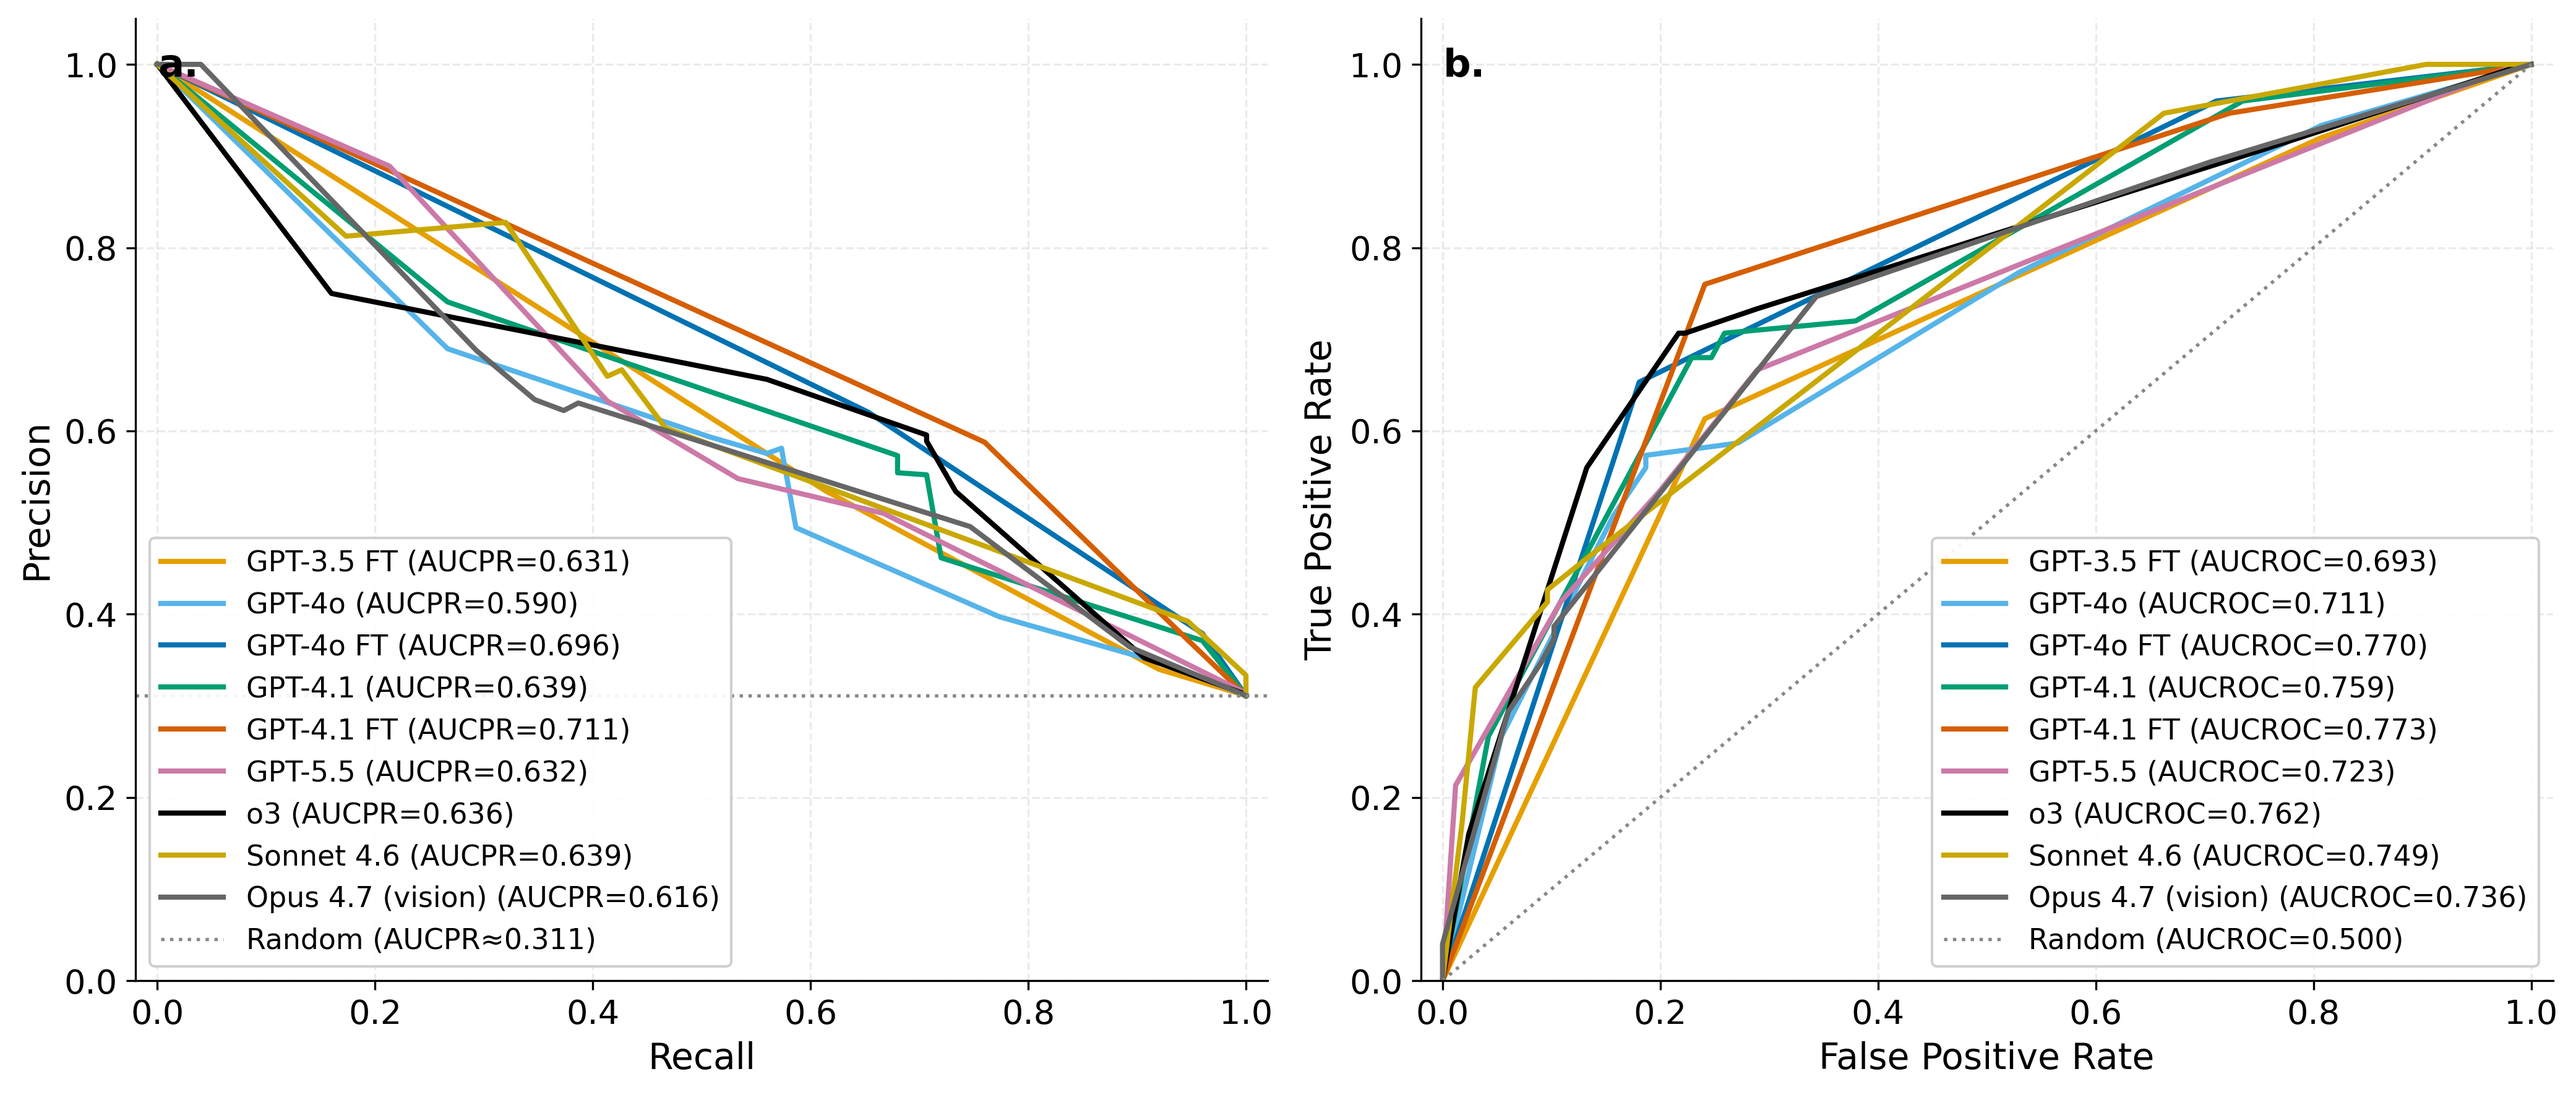
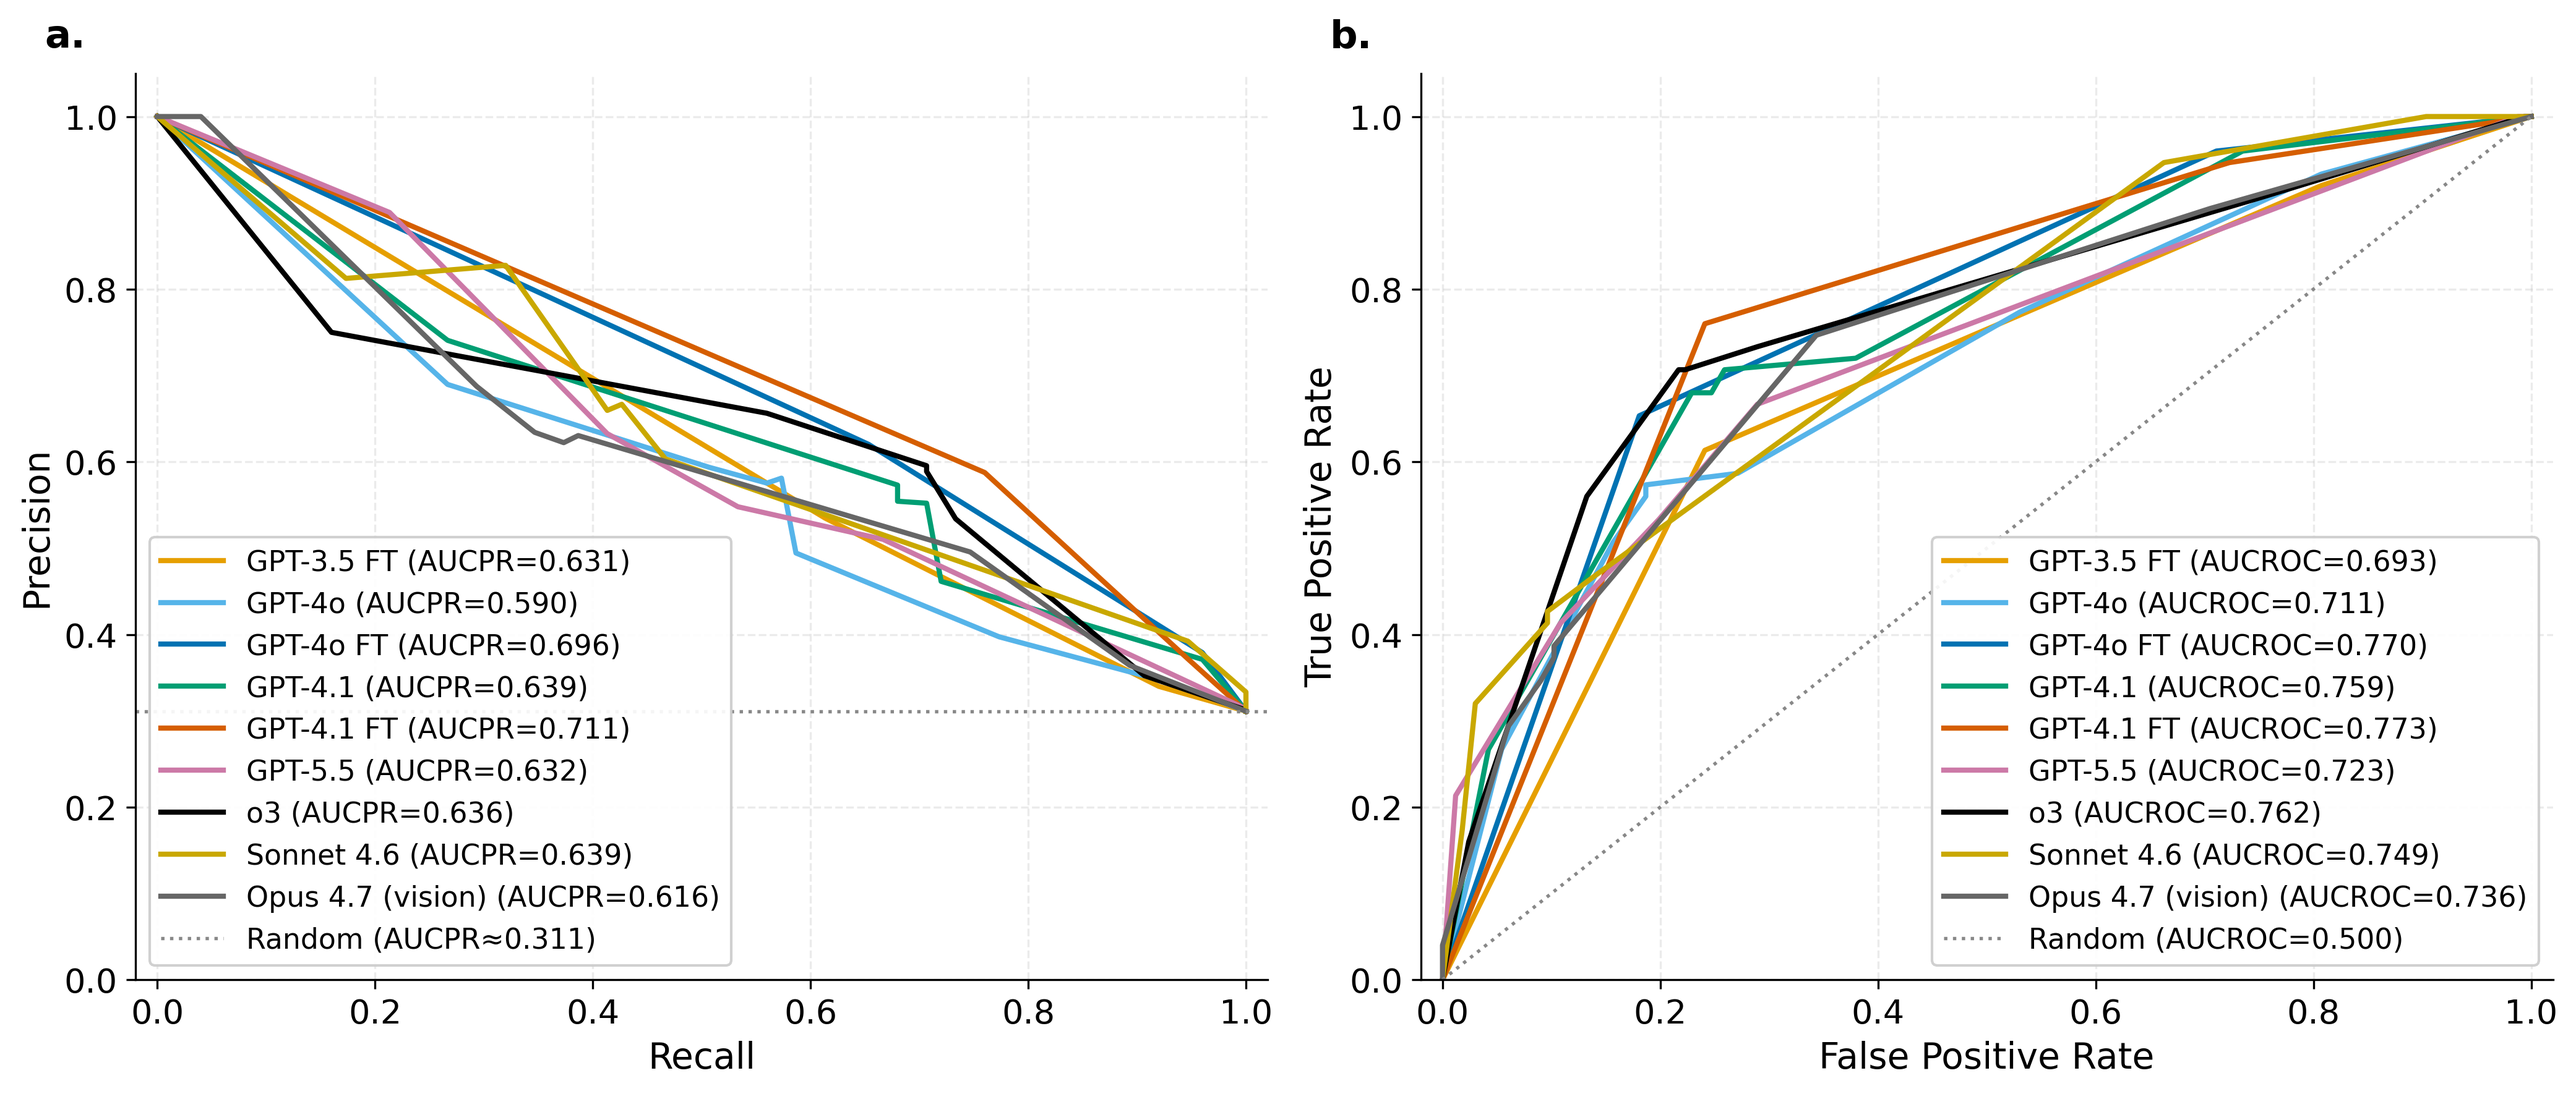
Update README and fix ROC/PRC panel label placement
- Rewrote README with current results, repo structure, and 9-model summary table
- Moved a./b. panel labels outside plot area in roc_prc_comparison.png

diff --git a/code final/make_roc_prc_fig.py b/code final/make_roc_prc_fig.py
@@ -117,7 +117,7 @@ ax_prc.axhline(baseline, color='#888888', linestyle=':', lw=1.3,
                label=f'Random (AUCPR≈{baseline:.3f})')
 ax_prc.set_xlabel('Recall', fontsize=14)
 ax_prc.set_ylabel('Precision', fontsize=14)
-ax_prc.text(0.02, 0.97, 'a.', transform=ax_prc.transAxes, fontsize=15, fontweight='bold', va='top')
+ax_prc.text(-0.08, 1.02, 'a.', transform=ax_prc.transAxes, fontsize=15, fontweight='bold', va='bottom')
 ax_prc.set_xlim(-0.02, 1.02)
 ax_prc.set_ylim(0, 1.05)
 ax_prc.legend(fontsize=11, loc='lower left', framealpha=0.92,
@@ -135,7 +135,7 @@ for label, df_m, color in COMPUTED_MODELS:
 ax_roc.plot([0, 1], [0, 1], color='#888888', linestyle=':', lw=1.3, label='Random (AUCROC=0.500)')
 ax_roc.set_xlabel('False Positive Rate', fontsize=14)
 ax_roc.set_ylabel('True Positive Rate', fontsize=14)
-ax_roc.text(0.02, 0.97, 'b.', transform=ax_roc.transAxes, fontsize=15, fontweight='bold', va='top')
+ax_roc.text(-0.08, 1.02, 'b.', transform=ax_roc.transAxes, fontsize=15, fontweight='bold', va='bottom')
 ax_roc.set_xlim(-0.02, 1.02)
 ax_roc.set_ylim(0, 1.05)
 ax_roc.legend(fontsize=11, loc='lower right', framealpha=0.92,

diff --git a/README.md b/README.md
@@ -1,95 +1,60 @@
 # ChatGDE
 
-This repo contains the implementation of ChatGDE.
+Code and data for our paper on automating the review of California Groundwater Sustainability Plans (GSPs) using large language models.
 
-## Table of Contents
+## What this is
 
-1. [Introduction](#introduction)
-2. [Features](#features)
-3. [Experiments](#experiments)
+Under California's Sustainable Groundwater Management Act (SGMA), Groundwater Sustainability Agencies must submit GSPs for state review — a process that involves manually scoring each plan against a detailed rubric. This project tests whether LLMs can do that scoring reliably enough to assist human reviewers.
 
-## Introduction
+The pipeline retrieves the most relevant chunks from each GSP PDF using hybrid BM25 + cosine retrieval, reranks them with a fine-tuned cross-encoder, and passes the top 15 chunks to an LLM to answer each rubric question (Yes / Somewhat / No + confidence).
 
-Efficient groundwater management is essential for environmental sustainability, particularly in regions like California. Groundwater-dependent ecosystems (GDEs) are critical for biodiversity, water quality, and carbon storage but are vulnerable to groundwater depletion. The California Sustainable Groundwater Management Act (SGMA) mandates Groundwater Sustainability Agencies (GSAs) to develop and review Groundwater Sustainability Plans (GSPs), a time-consuming and costly process.
+We evaluated nine model configurations across five trial GSPs: GPT-3.5 FT, GPT-4o (base and fine-tuned), GPT-4.1 (base and fine-tuned), GPT-5.5, OpenAI o3, Claude Sonnet 4.6, and Claude Opus 4.7 (vision). The best model (fine-tuned GPT-4.1 v4) was then run on all 62 high- and medium-priority California GSPs.
 
-ChatGDE was developed to automate portions of the GSP review process, leveraging large language models (LLMs) like GPT to improve efficiency and reduce costs. By employing techniques like Retrieval Augmented Generation (RAG), fine-tuning, and prompt engineering, ChatGDE provides preliminary evaluations aligned with human reviews, achieving up to 73% agreement with expert evaluations. This represents a significant advancement in applying AI to streamline environmental policy tasks.
+Best binary accuracy on trial GSPs: **75.9%** (GPT-4.1 FT v4). Among base models, Claude Sonnet 4.6 and o3 both reach **75.5%** without any fine-tuning.
 
-## Features
+## Repo structure
 
 ```
-ChatGDE
-├── GSP_Drafts
-│   ├── Rubrics
-│   │   ├── 1_BigValley_DraftGSP_ScoringRubric.csv
-│   │   ├── 11_Butte_DraftGSP_ScoringRubric.csv
-│   │   ├── 14_EastContraCosta_DraftGSP_ScoringRubric.csv
-│   │   ├── 15_Fillmore_DraftGSP_ScoringRubric.csv
-│   │   ├── 30_SonomaValley_DraftGSP_ScoringRubric.csv
-│   │   ├── 46_Modesto_DraftGSP_ScoringRubric.csv
-│   │   ├── 50_SanLuisObispoValley_DraftGSP_ScoringRubric.csv
-│   │   └── 55_SantaMargarita_DraftGSP_ScoringRubric.csv
-│   ├── 1_BigValley.pdf
-│   ├── 11_Butte.pdf
-│   ├── 14_ECC.pdf
-│   ├── 15_Fillmore.pdf
-│   ├── 30_Sonoma.pdf
-│   ├── 46_Modesto.pdf
-│   ├── 50_SLO.pdf
-│   └── 55_SanMargarita.pdf
-├── FinalPaperExperimentsNoKey.ipynb
-├── FinalPaperVisualizationsNoKey.ipynb
-├── prompts3.py
-└── prompts_2.py
+GSP_Drafts/
+  Rubrics/       scoring rubric CSVs for all 65 basins
+  *.pdf          trial GSP PDFs (Big Valley, Butte, ECC, Fillmore, Sonoma, SLO)
+
+code final/
+  run_*.py       eval scripts for each model
+  make_*_fig.py  figure generation scripts
+  GSP_All.ipynb  main analysis notebook
+
+results/
+  results_*.csv                    per-question model outputs, all 9 models
+  checkpoint_*.json                resumable checkpoints
+  gpt41ft_allgsps_per_gsp_metrics.csv   per-GSP accuracy + AUC for all 62 GSPs
+
+images/
+  roc_prc_comparison.png
+  binary_accuracy_{overall,by_gsp}.png
+  class_accuracy_{overall,by_gsp}.png
+  class_recall_comparison.png
+  confusion_matrices.png
 ```
 
+## Results summary
 
+| Model | Binary Acc. | ROC AUC | PRC AUC |
+|---|---|---|---|
+| GPT-4o (base) | 62.7% | 0.711 | 0.590 |
+| GPT-3.5 FT | 72.8% | 0.693 | 0.631 |
+| GPT-4o FT | 73.1% | 0.770 | 0.696 |
+| GPT-4.1 (base) | 73.0% | 0.759 | 0.639 |
+| GPT-5.5 (base) | 71.8% | 0.723 | 0.632 |
+| o3 + Reranker | 75.5% | 0.762 | 0.636 |
+| Claude Sonnet 4.6 | 75.5% | 0.749 | 0.639 |
+| Claude Opus 4.7 (vision) | 73.9% | 0.736 | 0.616 |
+| **GPT-4.1 FT v4** | **75.9%** | **0.773** | **0.711** |
 
-This repo is composed of the following:
-- `GSP_Drafts/` Contains PDF files of Groundwater Sustainability Plans (GSPs) for various counties. Add or update files here based on the plans you want to evaluate.
-- `Rubrics/' Contains CSV files of human-scored rubrics corresponding to the GSPs. Add or update files here based on which county’s scoring rubric you want to include.
-- `FinalPaperExperimentsNoKey.ipynb` A Jupyter Notebook containing the experiments performed for the paper, focusing on model optimization and evaluation techniques.
-- `FinalPaperVisualizationsNoKey.ipynb` A Jupyter Notebook containing the visualizations used in the research paper, detailing results and performance metrics.
-- `prompts3.py` Contains the third version of prompts used for the model, reflecting binary classification.
-- `prompts_2.py` Contains the second version of prompts used for the model, with our best prompt engineering results. Includes the "No", "Somewhat" and "Yes" categories.
+Trial GSPs (n=241 after excluding NotApplicable rows). Binary = Yes vs. {Somewhat + No}.
 
-## Experiments
+GPT-4.1 FT v4 applied to all 62 California GSPs: **75.6% accuracy** (57 non-trial GSPs), mean ROC AUC = 0.767.
 
-To optimize ChatGDE’s performance, we conducted a series of experiments, focusing on vector storage, prompt engineering, and model fine-tuning:
+## Notes
 
-## **Structural Experiments**:
-
-	1.	Vector Storehouse:
-	•	Levels: Compared CHROMA and FAISS for storing text embeddings.
-	•	Results: FAISS achieved higher accuracy (52.8%) compared to CHROMA (33.9%).
-	2.	Vector Split Strategy:
-	•	Levels: Split GSPs by page vs. fixed chunk sizes.
-	•	Results: Page-based splitting provided better accuracy by retaining context integrity.
-	3.	Vector Retrieval Quantity:
-	•	Levels: Set k = 5, 10, 15, where k is the number of vectors retrieved per query.
-	•	Results: k=10 yielded the best balance between accuracy and avoiding context length errors.
-	4.	ChatGPT Model Versions:
-	•	Levels: Tested GPT-3.5 Turbo, GPT-4, and GPT-4o.
-	•	Results: Fine-tuned GPT-4o outperformed others, particularly in precision and recall metrics.
-
-## **Prompt Engineering**:
-
-	1.	Standardizing Prompts:
-	•	Adjusted formatting for consistency and spelled out acronyms.
-	•	Results: Standardization had minimal impact on model accuracy.
-	2.	Critical Instruction Emphasis:
-	•	Modified prompts to encourage “skeptical evaluation.”
-	•	Results: Improved response distribution and accuracy modestly.
-	3.	Confidence Levels:
-	•	Levels: Added instructions for models to include confidence levels with responses.
-	•	Results: Enabled better evaluation of model certainty and performance trade-offs.
-
-## **Fine-Tuning and Simplification**:
-
-	1.	Binary Classification:
-	•	Merged “No” and “Somewhat” into a single category.
-	•	Results: Improved accuracy to 64% but reduced precision and recall.
-	2.	Fine-Tuning:
-	•	Models: Fine-tuned GPT-3.5 and GPT-4o using custom GSP training data.
-	•	Results: Fine-tuned GPT-4o achieved the highest performance (accuracy: 73%, AUCROC: 0.77).
-
-These experiments demonstrate the potential of LLMs to augment, though not entirely replace, human expertise in environmental policy reviews. Future work will focus on ensemble approaches and testing updated LLMs, possibly outside of the OpenAI ecosystem.
+API keys are not included. Scripts expect `OPENAI_API_KEY` and `ANTHROPIC_API_KEY` as environment variables. Large embedding caches, model weights, and most GSP PDFs are excluded from this repo via `.gitignore` — see the paper for the full data pipeline.
